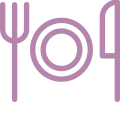
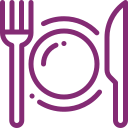
Dia-3

diff --git a/FrontEnd/index.html b/FrontEnd/index.html
@@ -31,73 +31,122 @@
     <script src="https://cdn.jsdelivr.net/npm/bootstrap@5.2.2/dist/js/bootstrap.bundle.min.js"></script>
     <link href="https://cdn.jsdelivr.net/npm/bootstrap@5.2.2/dist/css/bootstrap.min.css" rel="stylesheet">
     <link href="https://getbootstrap.com/docs/5.2/assets/css/docs.css" rel="stylesheet">
+    <link rel="preconnect" href="https://fonts.googleapis.com">
+<link rel="preconnect" href="https://fonts.gstatic.com" crossorigin>
+<link href="https://fonts.googleapis.com/css2?family=Josefin+Sans:wght@300&display=swap" rel="stylesheet">
     <!--CSS-->
     <link rel="stylesheet" href="css/style.css">
     <title>Principal</title>
 </head>
 
 <body>
-    <div class="row" style="height: 4vh;">
 
-    </div>
+    <div class="container">
 
+        <div class="row">
+            <div class="col-4">
 
-    <div class="row">
-        <div class="col-1">
-
-        </div>
-
-
-        <div class="conteudo col-10 pos-f-t container-fluid">
-
-            <div class="row">
-
-
-                <div class="col-2" style="text-align: center;">
-                    <img src="./imgs/cutlery.png" style="width:50px;">
-                </div>
-
-
-                <div class="col-8" style="text-align: center;">
-                    <input id="pesquisa" type="text" class="form-control pesquisa" style="width:100% ;"
-                        placeholder="PESQUISA">
-                </div>
-
-                <div class="col-2" style="text-align: center;">
-                    <button class="toggler" type="button" data-bs-toggle="collapse"
-                        data-bs-target="#navbarToggleExternalContent" aria-controls="navbarToggleExternalContent"
-                        aria-expanded="false" aria-label="Toggle navigation">
-                        <span class="navbar-toggler-icon"></span>
-                    </button>
-                </div>
+                <img src="./imgs/cutlery.png" width="20%" />
 
             </div>
-            <div class="row collapse" id="navbarToggleExternalContent">
+            <div class="col-4">
 
-              
-                <div class="lista-acoes col-5" style="text-align: start; position: relative;left: 60%;">
-                    <ul>
-                        <li><a href="#" class="acao"> HOME </a></li>
-                        <li><a href="#" class="acao"> RECEITAS SALGADAS </a></li>
-                        <li><a href="#" class="acao"> RECEITAS DOCES </a></li>
-                        <li><a href="#" class="acao"> PETISCOS </a></li>
+                <input type="text" class="form-control pesquisa-principal" placeholder="PESQUISA" />
+
+            </div>
+            <div class="col-4" style="text-align:end;">
+
+
+                <button class="navbar-toggler" type="button" data-bs-toggle="collapse" d
+                    ata-bs-target="#navbarToggleExternalContent" aria-controls="navbarToggleExternalContent"
+                    aria-expanded="false" aria-label="Toggle navigation">
+
+                    <a class="nav-link navbar-toggle" data-bs-toggle="dropdown" href="#" role="button"
+                        aria-expanded="false" style="text-align:end ;">
+
+                        <svg xmlns="http://www.w3.org/2000/svg" x="0px" y="0px" width="20%" viewBox="0 0 172 172"
+                            style=" fill:#000000;">
+                            <defs>
+                                <linearGradient x1="43.2365" y1="0.2365" x2="125.02608" y2="82.02608"
+                                    gradientUnits="userSpaceOnUse" id="color-1_Rdp3AydLFY2A_gr1">
+                                    <stop offset="0.237" stop-color="#842b74"></stop>
+                                    <stop offset="0.85" stop-color="#842b74"></stop>
+                                </linearGradient>
+                                <linearGradient x1="43.2365" y1="43.2365" x2="125.02608" y2="125.02608"
+                                    gradientUnits="userSpaceOnUse" id="color-2_Rdp3AydLFY2A_gr2">
+                                    <stop offset="0.237" stop-color="#842b74"></stop>
+                                    <stop offset="0.85" stop-color="#842b74"></stop>
+                                </linearGradient>
+                                <linearGradient x1="43.2365" y1="86.2365" x2="125.02608" y2="168.02608"
+                                    gradientUnits="userSpaceOnUse" id="color-3_Rdp3AydLFY2A_gr3">
+                                    <stop offset="0.237" stop-color="#842b74"></stop>
+                                    <stop offset="0.85" stop-color="#842b74"></stop>
+                                </linearGradient>
+                            </defs>
+                            <g fill="none" fill-rule="nonzero" stroke="none" stroke-width="1" stroke-linecap="butt"
+                                stroke-linejoin="miter" stroke-miterlimit="10" stroke-dasharray="" stroke-dashoffset="0"
+                                font-family="none" font-weight="none" font-size="none" text-anchor="none"
+                                style="mix-blend-mode: normal">
+                                <path d="M0,172v-172h172v172z" fill="none"></path>
+                                <g>
+                                    <path
+                                        d="M154.08333,53.75h-136.16667c-3.94167,0 -7.16667,-3.225 -7.16667,-7.16667v-7.16667c0,-3.94167 3.225,-7.16667 7.16667,-7.16667h136.16667c3.94167,0 7.16667,3.225 7.16667,7.16667v7.16667c0,3.94167 -3.225,7.16667 -7.16667,7.16667z"
+                                        fill="url(#color-1_Rdp3AydLFY2A_gr1)"></path>
+                                    <path
+                                        d="M154.08333,96.75h-136.16667c-3.94167,0 -7.16667,-3.225 -7.16667,-7.16667v-7.16667c0,-3.94167 3.225,-7.16667 7.16667,-7.16667h136.16667c3.94167,0 7.16667,3.225 7.16667,7.16667v7.16667c0,3.94167 -3.225,7.16667 -7.16667,7.16667z"
+                                        fill="url(#color-2_Rdp3AydLFY2A_gr2)"></path>
+                                    <path
+                                        d="M154.08333,139.75h-136.16667c-3.94167,0 -7.16667,-3.225 -7.16667,-7.16667v-7.16667c0,-3.94167 3.225,-7.16667 7.16667,-7.16667h136.16667c3.94167,0 7.16667,3.225 7.16667,7.16667v7.16667c0,3.94167 -3.225,7.16667 -7.16667,7.16667z"
+                                        fill="url(#color-3_Rdp3AydLFY2A_gr3)"></path>
+                                </g>
+                            </g>
+                        </svg>
+
+                    </a>
+                    <ul class="dropdown-menu">
+                        <li><a class="dropdown-item" href="#">Receitas Doces</a></li>
+                        <li>
+                            <hr class="dropdown-divider">
+                        </li>
+                        <li><a class="dropdown-item" href="#">Receitas Salgadas</a></li>
+                        <li>
+                            <hr class="dropdown-divider">
+                        </li>
+                        <li><a class="dropdown-item" href="#">Petiscos</a></li>
+
+
                     </ul>
 
-                </div>
+            </div>
+        </div>
+
+
+        <div class="row" style="height:80vh; ">
+            <div class="col" style="text-align:center ;">
+                <img src="./imgs/ramo-folhas.png" class=" vertical-cente" width="50%"/>
+
+            </div>
+            <div class="col titulo-receitas">
+                <h1 class="receitas-da-moog">
+                    RECEITAS
+                    <BR>
+                    <BR>
+
+                    DA
+                    <BR>
+                    <BR>
+                    MOOG
+                </h1>
+            </div>
+            <div class="col" >
+                <img src="./imgs/ramo-folhas-2.png" class="" width="50%"/>
+
             </div>
 
 
-
-
-
         </div>
 
 
-
-        <div class="col-1">
-
-        </div>
-    </div>
 
 
 

diff --git a/FrontEnd/css/style.css b/FrontEnd/css/style.css
@@ -1,61 +1,48 @@
-body{
+body {
     padding: 0;
     margin: 0;
+    overflow-x: hidden;
+
     background-image: url("../imgs/fundo-cozinha.jpeg");
     background-repeat: no-repeat;
     background-size: cover;
-    overflow-x: hidden;
+    padding-top: 5vh;
 }
 
-.conteudo{
-    background-color: rgba(248,248,255,0.85);
-    height: 90vh;
-    padding: 0;
-   
-}
-.botao{
-    justify-content: end;
-    background-color: #832C73;
+.container {
     
+    background-color: rgba(255,255,255, 0.8);
+    padding-top: 1%;
 }
 
-.item-menu{
-    text-decoration: none;
-    color: white;
+.dropdown-menu {
+    inset: 10px 0px auto -20px !important;
+    position: absolute !important;
 }
-
-.navbar{
-    background-color: transparent !important;
-}
-
-.pesquisa{
-    background-color: #B585AE;
-   
-}
-
-#pesquisa::-webkit-input-placeholder{
-    color:#fff;
-    text-transform: uppercase;
-    font-style: bold;
-    text-align: center;
+.pesquisa-principal{
+    background-color: #d798d1;
+    width: 100%;
     font-weight: bold;
-}
-
-.navbar-toggler{
-background-color: #832C73;
-}
-
-.lista-acoes{
-    background-color: #B585AE;
-}
-.acao{
-text-decoration: none;
-color: #fff;
-font-weight: bold;
-}
-
-::marker {
-    color: #832C73;
-    font-size:40px;
     
+}
+.dropdown-menu{
+background-color: #D9CBD8;
+border: none;
+}
+.titulo-receitas{
+    text-align: center;
+   padding-top:10vh;
+}
+.receitas-da-moog{
+    font-size:5vw;
+    font-family: 'Fuzzy Bubbles', cursive;
+    font-weight:600;
+    color:#842B74;
+}
+
+.vertical-cente{
+    margin: 0;
+    position: absolute;
+    top:40vh ;
+ 
 }
